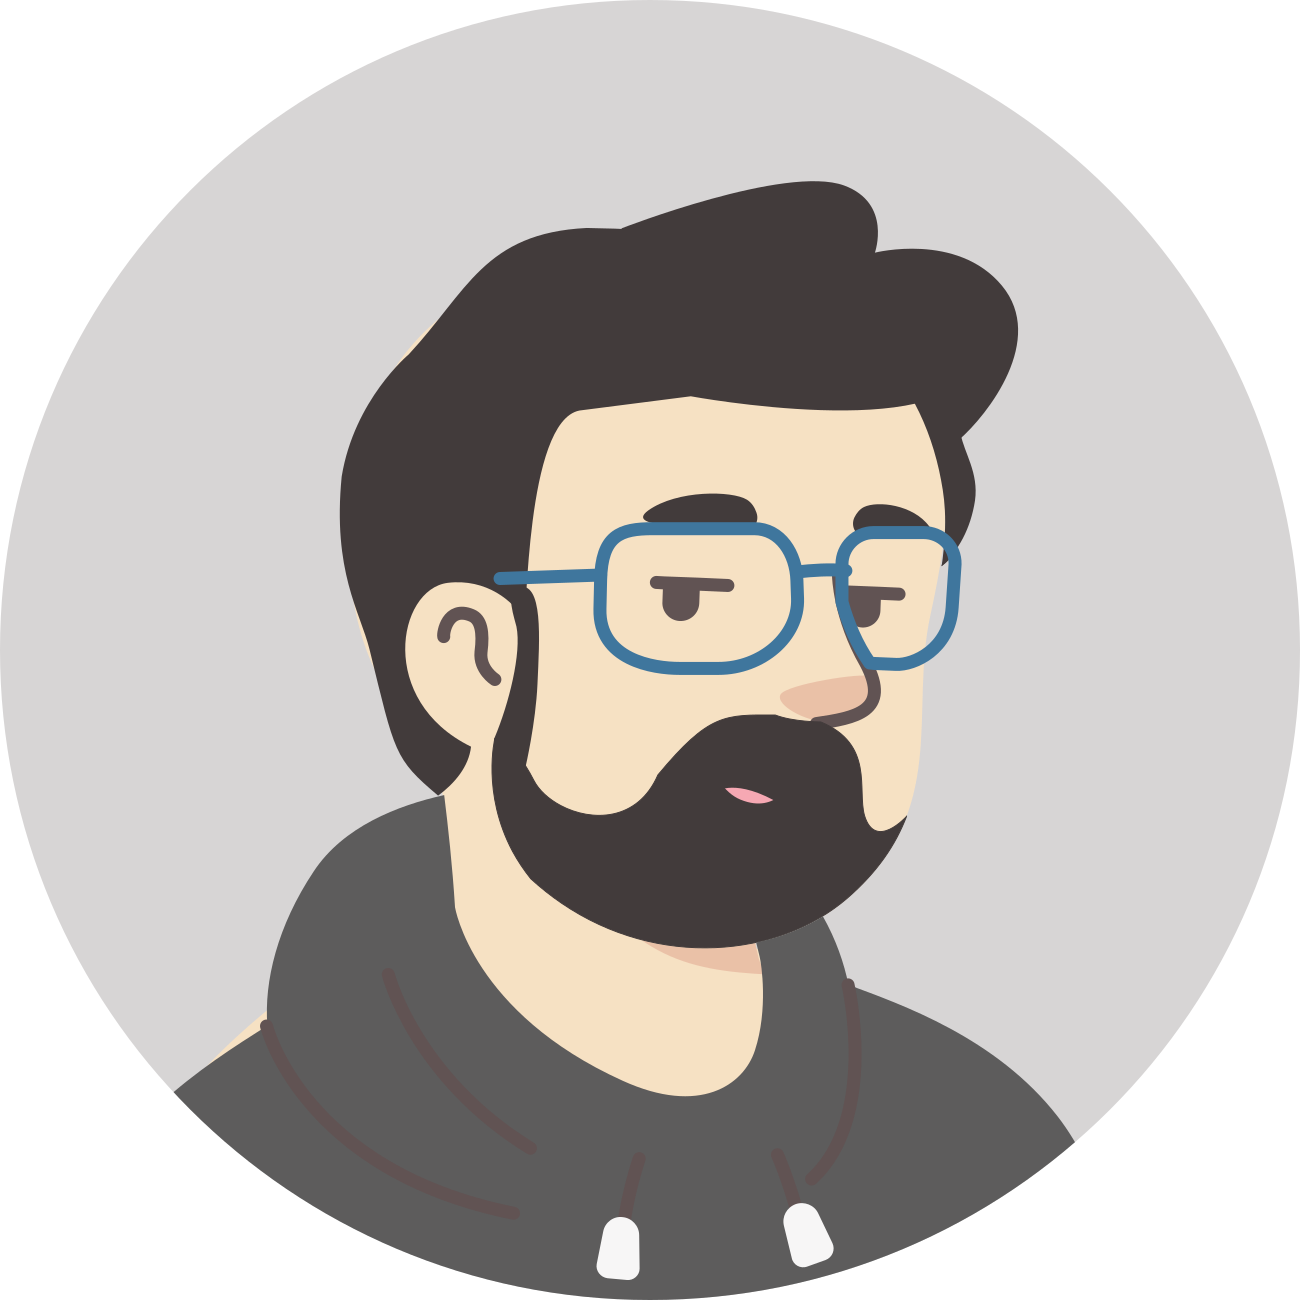
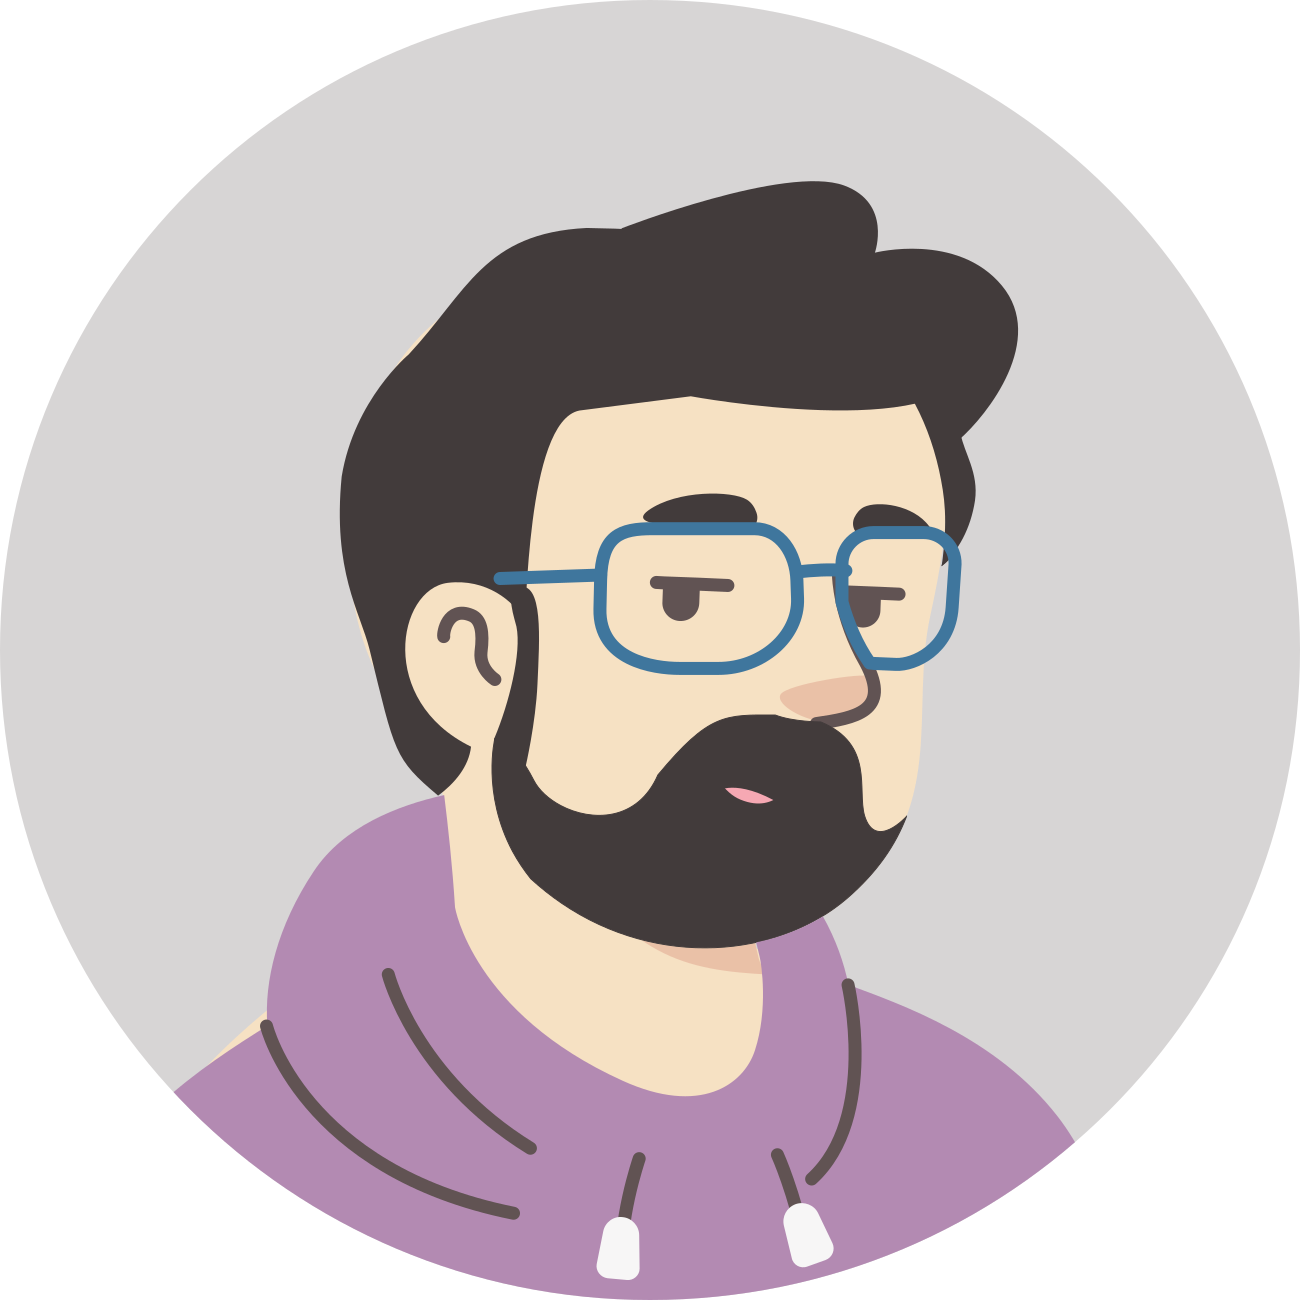
feat: apply theme and add navigation

Changed region(s): [[0.1231, 0.6154, 0.8308, 1.0]]

diff --git a/src/components/sidebar.js b/src/components/sidebar.js
@@ -1,7 +1,10 @@
 import React from "react";
-import { Link } from "react-router-dom";
+import { Link, useLocation } from "react-router-dom";
 
 const Sidebar = () => {
+  const location = useLocation();
+  const isActive = (path) => location.pathname === path;
+
   return (
     <div className="row-span-2 p-4">
       <div className="flex items-center">
@@ -11,43 +14,49 @@ const Sidebar = () => {
         <span>Resumé</span>
       </div>
       <div className="flex justify-between py-4">
-        <i className="material-icons text-blue-400">folder</i>
+        <i className="material-icons text-primary">folder</i>
         <i className="material-icons">search</i>
         <i className="material-icons">widgets</i>
         <i className="material-icons">settings</i>
       </div>
-      <div className="flex flex-col gap-2 text-sm">
-        <div className="flex items-center justify-start gap-3">
+      <div className="flex flex-col text-sm">
+        <div className="flex items-center justify-start gap-3 p-1">
           <i className="material-icons-outlined">folder</i>
           <b>Resumeé</b>
         </div>
-        <div className="flex items-center justify-start gap-3">
+        <div className="flex items-center justify-start gap-3 p-1">
           <i className="material-icons">chevron_right</i>
           <i className="material-icons">folder</i> .github
         </div>
-        <div className="flex items-center justify-start gap-3">
+        <div className="flex items-center justify-start gap-3 p-1">
           <i className="material-icons">chevron_right</i>
           <i className="material-icons">folder</i> node_modules
         </div>
-        <div className="flex items-center justify-start gap-3">
+        <div className="flex items-center justify-start gap-3 p-1">
           <i className="material-icons rotate-90">chevron_right</i>
           <i className="material-icons-outlined">folder</i> src
         </div>
-        <Link to="/" className="flex items-center justify-start gap-3">
+        <Link
+          to="/"
+          className={`flex items-center justify-start gap-3 p-1 ${isActive("/") ? "bg-gray-500" : "hover:bg-gray-600"}`}
+        >
           <i className="material-icons opacity-0">chevron_right</i>
           <i className="material-icons-outlined">description</i> About.html
         </Link>
         <Link
           to="/experience"
-          className="flex items-center justify-start gap-3"
+          className={`flex items-center justify-start gap-3 p-1 ${isActive("/experience") ? "bg-gray-500" : "hover:bg-gray-600"}`}
         >
           <i className="material-icons opacity-0">chevron_right</i>
           <i className="material-icons-outlined">description</i> Experience.css
         </Link>
-        <div className="flex items-center justify-start gap-3">
+        <Link
+          to="/skills"
+          className={`flex items-center justify-start gap-3 p-1 ${isActive("/skills") ? "bg-gray-500" : "hover:bg-gray-600"}`}
+        >
           <i className="material-icons opacity-0">chevron_right</i>
-          <i className="material-icons-outlined">description</i> Education.js
-        </div>
+          <i className="material-icons-outlined">description</i> Skills.py
+        </Link>
       </div>
     </div>
   );

diff --git a/src/pages/experience.js b/src/pages/experience.js
@@ -1,54 +1,6 @@
 import React from "react";
 import TabContent from "../components/tab-content";
 
-const workExperience = [
-  {
-    title: "Rust and React developer",
-    company: "Planck Security",
-    dates: "2024 - 2025",
-    responsibilities: [
-      "Migration of part of the tech stack from Python to Rust.",
-      "Development and maintenance of a Rust Dockerized solution, able to manage decrypt and store email messages.",
-      "Development of a Rust API and a React frontend to manage a Rust decryption solution.",
-    ],
-    skills: ["Rust", "React", "Docker", "Javascript", "Bashscript"],
-  },
-  {
-    title: "Web and Python developer",
-    company: "pEp Security → Planck Security",
-    dates: "2018 - 2024",
-    responsibilities: [
-      "Development of Python-based apps and tools like a command line interface or an API for our testing framework.",
-      "Migration of static HTML websites to a customised CMS (Django/Mezzanine)",
-      "Development of a shop integrated with different payment platforms and custom invoicing options.",
-      "Design and implementation of a web/python interface to an MQ queue system.",
-      "Implementation of a CLI tool and a Docker solution to decrypt email traffic.",
-    ],
-    skills: ["Python", "Django", "Docker", "HTML", "CSS", "Javascript"],
-  },
-  {
-    title: "Full Stack developer",
-    company: "Ancora Dual",
-    dates: "2014 - 2018",
-    responsibilities: [
-      "Website design and development",
-      "Development of a customizable CMS adaptable to all kind of business, based on Django and Backbone.",
-      "Design and development of Autopractik, a driving school management and booking system and multi-platform APP.",
-      "Design and development of Backbone/Phonegap system to generate customized APPs for our customers.",
-      "Implementation of agile-based working methodology on the company.",
-    ],
-    skills: [
-      "Python",
-      "Django",
-      "Backbone",
-      "Phonegap",
-      "HTML",
-      "CSS",
-      "Javascript",
-    ],
-  },
-];
-
 const Code = `\`\`\`json
 {
   title: "Rust and React developer",
@@ -56,10 +8,8 @@ const Code = `\`\`\`json
   dates: "2024 - 2025",
   responsibilities: [
     "Migration of part of the tech stack from Python to Rust.",
-    "Development and maintenance of a Rust Dockerized solution, 
-    able to manage decrypt and store email messages.",
-    "Development of a Rust API and a React frontend to manage a Rust 
-    decryption solution.",
+    "Development and maintenance of a Rust Dockerized solution, able to manage decrypt and store email messages.",
+    "Development of a Rust API and a React frontend to manage a Rust decryption solution.",
   ]
 },{
   title: "Web and Python developer",

diff --git a/src/components/nav-tabs.js b/src/components/nav-tabs.js
@@ -1,27 +1,42 @@
 import React from "react";
-import { Link } from "react-router-dom";
+import { Link, useLocation } from "react-router-dom";
 
 const NavTabs = () => {
+  const location = useLocation();
+  const isActive = (path) => location.pathname === path;
+
   return (
     <nav className=" bg-gray-900 text-xs col-start-2 col-span-2 flex">
       <Link
         to="/"
-        className="bg-gray-700 border-r border-gray-700 h-full px-3 py-2"
+        className={`
+          border-r border-gray-700 h-full px-3 py-2 
+          ${isActive("/") ? "bg-gray-700" : "hover:bg-gray-800"}
+        `}
       >
         <i className="material-icons-outlined text-sm p-1">html</i>
         About.xml
       </Link>
       <Link
         to="/experience"
-        className="border-r border-gray-700 h-full px-3 py-2"
+        className={`
+          border-r border-gray-700 h-full px-3 py-2 
+          ${isActive("/experience") ? "bg-gray-700" : "hover:bg-gray-800"}
+        `}
       >
         <i className="material-icons-outlined text-sm mr-2 p-1">css</i>
         Experience.json
       </Link>
-      <div className="border-r border-gray-700 px-3 h-full py-2">
-        <i className="material-icons-outlined text-sm mr-2 p-1">javascript</i>
-        Education.js
-      </div>
+      <Link
+        to="/skills"
+        className={`
+          border-r border-gray-700 h-full px-3 py-2 
+          ${isActive("/skills") ? "bg-gray-700" : "hover:bg-gray-800"}
+        `}
+      >
+        <i className="material-icons-outlined text-sm mr-2 p-1">css</i>
+        Skills.py
+      </Link>
     </nav>
   );
 };

diff --git a/src/pages/skills.js b/src/pages/skills.js
@@ -1,0 +1,51 @@
+import React from "react";
+import TabContent from "../components/tab-content";
+
+const Code = `\`\`\`Python
+# This is what I can do!
+
+hard_skills = {
+    "Python": "🐍",
+    "Rust": "🦀",
+    "Javascript": "👨🏼💻",
+    "Django": "🤠",
+    "React": "⚛",
+    "Docker": "🐋",
+    "Github": "🐙",
+}
+
+def show_skills(myskills):
+    """
+    Show some love for the skills
+    """
+    for skill, icon in myskills.items(): 
+        print(f"I ♥ {skill}! {icon}")
+
+def main():
+    show_skills(myskills)
+
+if __name__ == "__main__":
+    main()
+
+\`\`\``;
+
+const SkillsContent = () => {
+  return (
+    <div>
+      Lorem ipsum dolor set amet orem ipsum dolor set amet orem ipsum dolor set
+      amet orem ipsum
+    </div>
+  );
+};
+
+const Skills = () => {
+  return (
+    <TabContent
+      code={Code}
+      Title="My Skills"
+      Content={SkillsContent}
+    ></TabContent>
+  );
+};
+
+export default Skills;

diff --git a/src/index.js b/src/index.js
@@ -6,6 +6,7 @@ import { BrowserRouter, Routes, Route } from "react-router-dom";
 import Layout from "./Layout";
 import About from "./pages/about";
 import Experience from "./pages/experience";
+import Skills from "./pages/skills";
 
 export default function App() {
   return (
@@ -14,6 +15,7 @@ export default function App() {
         <Route path="/" element={<Layout />}>
           <Route index element={<About />} />
           <Route path="experience" element={<Experience />} />
+          <Route path="skills" element={<Skills />} />
         </Route>
       </Routes>
     </BrowserRouter>

diff --git a/tailwind.config.js b/tailwind.config.js
@@ -1,11 +1,17 @@
 /** @type {import('tailwindcss').Config} */
 
+const colors = require("tailwindcss/colors");
+
 module.exports = {
-  content: ['./src/**/*.{js,jsx,ts,tsx}'],
+  content: ["./src/**/*.{js,jsx,ts,tsx}"],
   theme: {
     extend: {
       backgroundImage: {
-        'page-bg': "url('./assets/images/background.jpg')",
+        "page-bg": "url('./assets/images/background.png')",
+      },
+      colors: {
+        primary: "#a7a",
+        secondary: "#bce",
       },
     },
   },

diff --git a/src/pages/about.js b/src/pages/about.js
@@ -4,10 +4,16 @@ import TabContent from "../components/tab-content";
 
 const Code = `\`\`\`xml
 <!-- About me -->
-<hello>
+<hello to="everyone">
   My name is <David_Beltrà/>,
   I'm a full-stack developer
   with more than 10 years of experience
+  <frontend>
+    It will look and behave nice
+  </frontend>
+  <backend>
+    It will work easy and fast
+  </backend>
 </hello>
   \`\`\``;
 

diff --git a/src/components/footer.js b/src/components/footer.js
@@ -2,7 +2,7 @@ import React from "react";
 
 const Footer = () => {
   return (
-    <div className="bg-gray-600 text-gray-400 text-xs row-start-3 col-span-3 flex gap-3 justify-end px-2">
+    <div className="bg-gray-500 text-gray-400 text-xs row-start-3 col-span-3 flex gap-3 justify-end px-2">
       <span>Line 4/20</span>
       <span>Spaces: 2</span>
       <span>UTF-8</span>

diff --git a/src/components/tab-content.js b/src/components/tab-content.js
@@ -1,10 +1,10 @@
 import { marked } from "marked";
+import "highlight.js/styles/nnfx-dark.css";
 import hljs from "highlight.js";
 import { useEffect } from "react";
 import React from "react";
 
 const TabContent = ({ code, Title, Content }) => {
-  console.log(Content);
   useEffect(() => {
     hljs.highlightAll();
   }, []);

diff --git a/src/index.css b/src/index.css
@@ -18,10 +18,6 @@ body {
   font-family: "Roboto";
 }
 
-code {
-  white-space: pre-wrap;
-}
-
 .code-font {
   font-family: "Cutive Mono";
   font-size: 0.7rem;
@@ -32,4 +28,8 @@ code {
 }
 pre code.hljs {
   padding: 0em !important;
+}
+
+code {
+  white-space: pre-wrap;
 }

diff --git a/src/Layout.js b/src/Layout.js
@@ -1,5 +1,4 @@
 import React from "react";
-import "highlight.js/styles/nnfx-dark.css";
 import Sidebar from "./components/sidebar";
 import NavTabs from "./components/nav-tabs";
 import Footer from "./components/footer";
